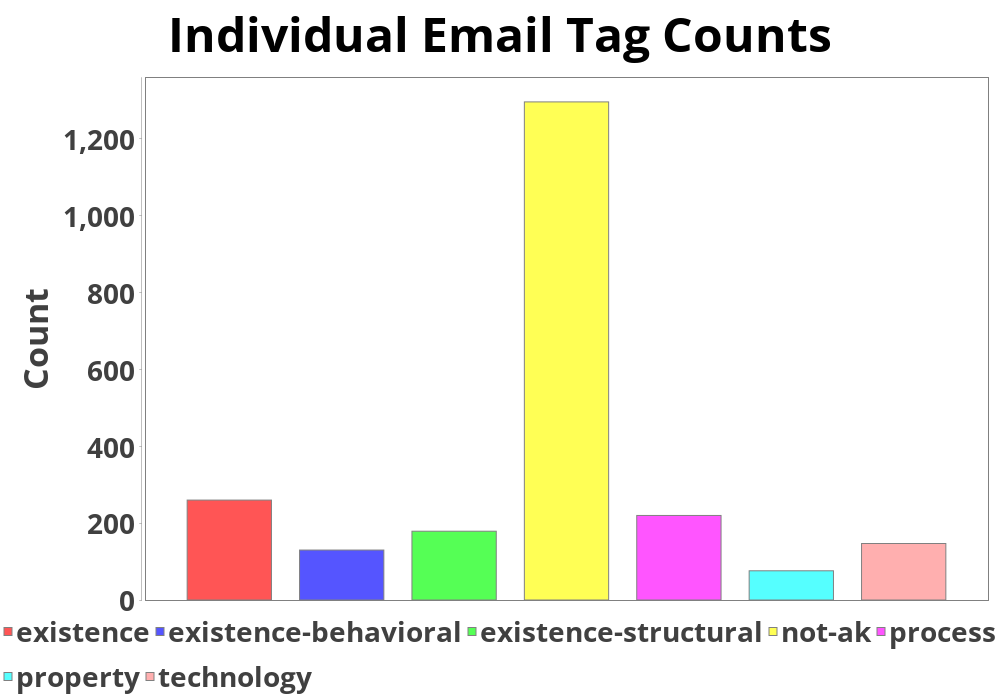
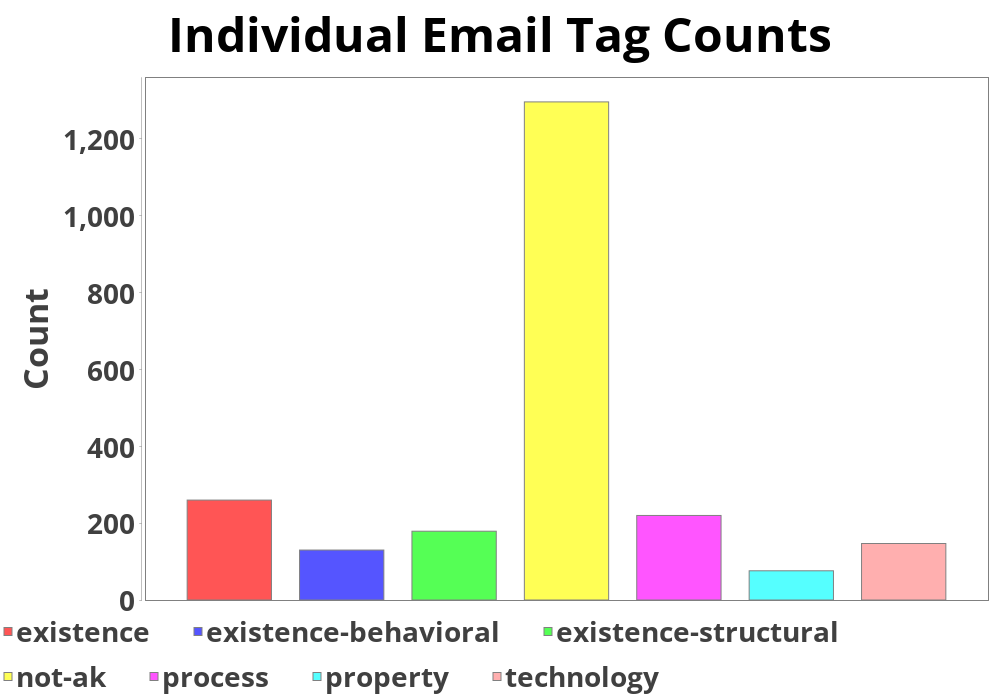
Pipeline works!

Changed region(s): [[0.155, 0.87, 1.0, 0.93], [0.0, 0.96, 0.465, 0.99], [0.496, 0.96, 0.682, 0.99]]

diff --git a/visual/jVisualizer/src/main/java/nl/andrewl/jvisualizer/render/CountRenderer.java b/visual/jVisualizer/src/main/java/nl/andrewl/jvisualizer/render/CountRenderer.java
@@ -14,6 +14,7 @@ import org.jfree.chart.plot.CategoryPlot;
 import org.jfree.chart.plot.PiePlot;
 import org.jfree.chart.renderer.category.BarRenderer;
 import org.jfree.chart.renderer.category.StandardBarPainter;
+import org.jfree.chart.ui.RectangleInsets;
 import org.jfree.data.category.DefaultCategoryDataset;
 import org.jfree.data.general.DefaultPieDataset;
 
@@ -37,8 +38,11 @@ public class CountRenderer implements ChartRenderer {
 			threadCountDataset.addValue(item.getValue().getAsInt(), item.getKey(), "test");
 		}
 
+		final RectangleInsets padding = new RectangleInsets(2, 2, 2, 40);
+
 		JFreeChart chart = ChartFactory.createBarChart("Individual Email Tag Counts", "Tag", "Count", emailCountDataset);
 		JVisualizer.getTheme().apply(chart);
+		chart.getLegend().setItemLabelPadding(padding);
 		CategoryPlot plot = chart.getCategoryPlot();
 		plot.getDomainAxis(0).setVisible(false);
 		BarRenderer renderer = (BarRenderer) plot.getRenderer();
@@ -50,6 +54,7 @@ public class CountRenderer implements ChartRenderer {
 
 		JFreeChart chart2 = ChartFactory.createBarChart("Thread Tag Counts", "Tag", "Count", threadCountDataset);
 		JVisualizer.getTheme().apply(chart2);
+		chart2.getLegend().setItemLabelPadding(padding);
 		CategoryPlot plot2 = chart2.getCategoryPlot();
 		plot2.getDomainAxis(0).setVisible(false);
 		BarRenderer renderer2 = (BarRenderer) plot2.getRenderer();
